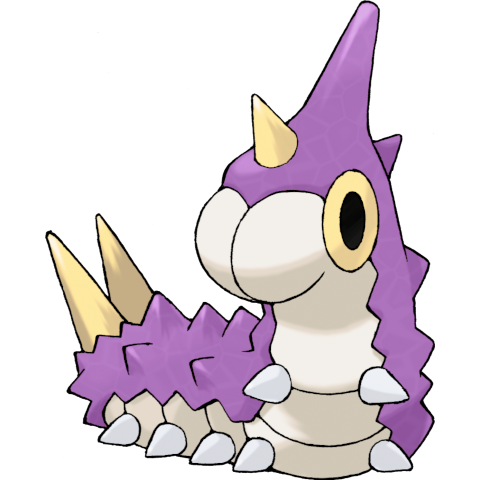
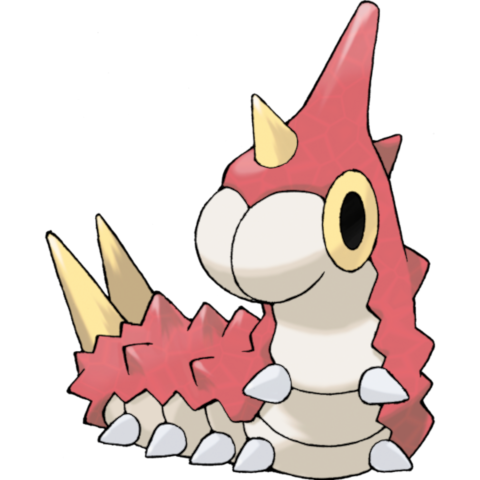
saint-lascivious.github.io: picture elements, dark/light wurm
Changes to be committed:
 - modified:   404.html
 - modified:   index.html
 - new file:   resources/images/wurmple-shiny.png
 - modified:   resources/images/wurmple.png

diff --git a/index.html b/index.html
@@ -130,12 +130,18 @@
                 Note: Sainternet intentionally disables Mozilla's <a href="https://support.mozilla.org/en-US/kb/configuring-networks-disable-dns-over-https">default DNS over HTTPS</a> and Apple's <a href="https://developer.apple.com/support/prepare-your-network-for-icloud-private-relay">iCloud Private Relay</a> to prevent them from bypassing Sainternet.
               </p>
             <h3 id="pokedexoverdns">National Pokédex over DNS</h3>
-              <img src="resources/images/wurmple.png" alt="#265 Wurmple: Using the spikes on its rear end, Wurmple peels the bark off trees and feeds on the sap that oozes out. This Pokémon's feet are tipped with suction pads that allow it to cling to glass without slipping." style="width:80%;">
+              <!-- get wurmed -->
+              <picture>
+                <source srcset="resources/images/wurmple-shiny.png" media="(prefers-color-scheme: dark)">
+                <img src="resources/images/wurmple.png" alt="#265 Wurmple: Using the spikes on its rear end, Wurmple peels the bark off trees and feeds on the sap that oozes out. This Pokémon's feet are tipped with suction pads that allow it to cling to glass without slipping." style="width:80%;">
+              </picture>
               <p>
                 Sainternet is proud to present to you the <b><i>world's first</i></b> (…and only?) DNS driven <a href="https://en.wikipedia.org/wiki/TXT_record">TXT record</a> based National Pokédex over DNS!
               </p>
               <!-- get termed -->
-              <img src="resources/images/terminal.png" alt="Example Pokédex-over-DNS query using nslookup and dig utilities from the command line: nslookup -type=txt wurmple.pokedex dns.sainternet.xyz, dig +short txt wurmple.pokedex @dns.sainternet.xyz" style="width:90%;">
+              <picture>
+                <img src="resources/images/terminal.png" alt="Example Pokédex-over-DNS query using nslookup and dig utilities from the command line: nslookup -type=txt wurmple.pokedex dns.sainternet.xyz, dig +short txt wurmple.pokedex @dns.sainternet.xyz" style="width:90%;">
+              </picture>
               <p>
                 This fun (<i>ab</i>)use of DNS enables one to query a Pokémon species name (currently supported: English) in order to receive its <a href="https://bulbapedia.bulbagarden.net/wiki/List_of_Pok%C3%A9mon_by_National_Pok%C3%A9dex_number">National Pokédex Number</a> (NPN), or query an NPN (zero padding optional) in order to receive the Pokémon species name (currently supported: English, Japanese <a href="https://en.wikipedia.org/wiki/Romanization_of_Japanese">Rōmaji</a>).
               </p>

diff --git a/404.html b/404.html
@@ -76,7 +76,9 @@
               <a href="https://sainternet.xyz">Home</a> &gt; <a href="#pokemon404">Pokémon #404</a> &gt; <a href="#luxio">Luxio</a>
             </div>
             <h3 id="pokemon404">Pokémon #404<br>Luxio<br>Spark Pokémon</h3>
-              <img src="resources/images/luxio.png" alt="Pokémon #404, Luxio (Spark Pokémon): Strong electricity courses through the tips of its sharp claws. A light scratch causes fainting in foes." style="width:80%;">
+              <picture>
+                <img src="resources/images/luxio.png" alt="Pokémon #404, Luxio (Spark Pokémon): Strong electricity courses through the tips of its sharp claws. A light scratch causes fainting in foes." style="width:80%;">
+              </picture>
               <p id="luxio">
                 A wild <b>Luxio</b> appeared!
               </p>
